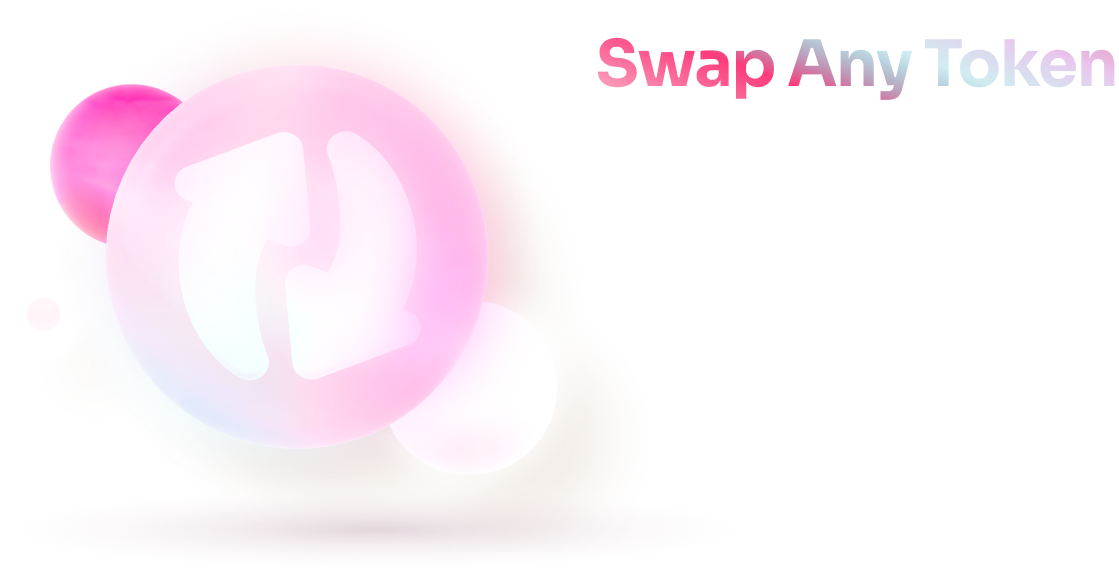
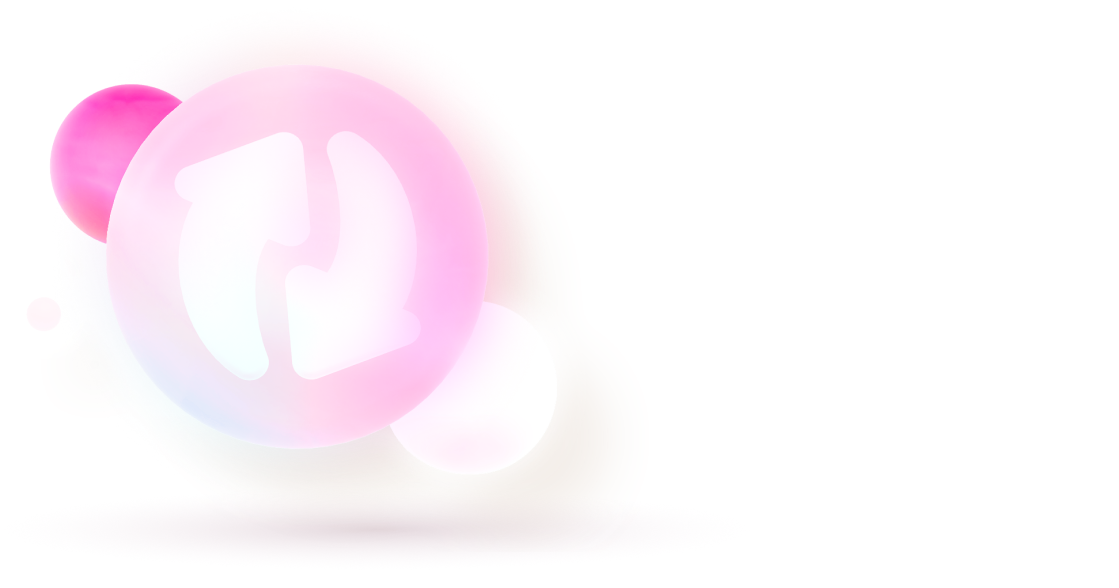
feat: added gradient titles

Changed region(s): [[0.5165, 0.0612, 1.0, 0.1837]]

diff --git a/src/views/About.vue b/src/views/About.vue
@@ -3,6 +3,9 @@
     <div class="content">
       <div class="about-main">
         <img src="@/assets/about/about01.png" draggable="false" class="main unselectable" />
+        <div class="about-main-title">
+          <p class="gradient main">{{ t('about.title') }}</p>
+        </div>
         <div class="about-main-text">
           <p class="text">{{ t('about.description') }}</p>
         </div>
@@ -10,6 +13,9 @@
       </div>
       <div class="about-trading">
         <img src="@/assets/about/about02.png" draggable="false" class="unselectable">
+        <div class="about-trading-title">
+          <p class="gradient trading">{{ t('about.trading.title') }}</p>
+        </div>
         <div class="about-trading-block-1">
           <p class="text">{{ t('about.trading.first') }}</p>
         </div>
@@ -30,6 +36,9 @@
       </div>
       <div class="about-liquidity">
         <img src="@/assets/about/about03.png" draggable="false" class="unselectable">
+        <div class="about-liquidity-title">
+          <p class="gradient liquidity">{{ t('about.liquidity.title') }}</p>
+        </div>
         <div class="about-liquidity-block-1">
           <p class="text">{{ t('about.liquidity.first') }}</p>
         </div>
@@ -49,6 +58,9 @@
       </div>
       <div class="about-swap">
         <img src="@/assets/about/about04.png" draggable="false" class="unselectable">
+        <div class="about-swap-title">
+          <p class="gradient swap">{{ t('about.swap.title') }}</p>
+        </div>
         <div class="about-swap-block-1">
           <p class="text">{{ t('about.swap.first') }}</p>
         </div>
@@ -68,6 +80,9 @@
       </div>
       <div class="about-pswap">
         <img src="@/assets/about/about05.png" draggable="false" class="unselectable">
+        <div class="about-pswap-title">
+          <p class="gradient pswap">{{ t('about.pswap.title') }}</p>
+        </div>
         <div class="about-pswap-block-1">
           <p class="text">{{ t('about.pswap.first') }}</p>
         </div>
@@ -161,6 +176,11 @@ $disclaimer-letter-spacing: -0.03em;
   }
 }
 
+.layout {
+  max-width: 1040px;
+  margin: 0 auto;
+}
+
 .content {
   display: flex;
   flex-direction: column;
@@ -207,6 +227,15 @@ $disclaimer-letter-spacing: -0.03em;
       width: 100%;
     }
 
+    &-title {
+      position: absolute;
+      top: 50%;
+      left: 50%;
+      transform: translate(-50%, -52%);
+      line-height: 62px;
+      text-align: center;
+    }
+
     &-text {
       top: 60%;
       width: 35%;
@@ -225,6 +254,14 @@ $disclaimer-letter-spacing: -0.03em;
     position: relative;
 
     @include backgroundImageWidth;
+
+    &-title {
+      position: absolute;
+      top: 20%;
+      left: 68%;
+      transform: translate(-50%, -50%);
+      width: fit-content;
+    }
 
     &-block-1 {
       top: 26%;
@@ -264,43 +301,40 @@ $disclaimer-letter-spacing: -0.03em;
 
     @include backgroundImageWidth;
 
-    &-block-1 {
-      top: 49.5%;
-      left: 12.5%;
-      width: 35%;
-
+    &-title {
       position: absolute;
+      top: 36%;
+      left: 32%;
+      transform: translate(-50%, -50%);
+      width: 40%;
+    }
+
+    &-block-1 {
+      top: 56.5%;
+      left: 30.5%;
+      width: 37%;
+      position: absolute;
+      transform: translate(-50%, -50%);
     }
     &-block-2 {
-      top: 60%;
-      left: 9%;
+      top: 75%;
+      left: 36%;
       width: 55%;
-
       position: absolute;
+      transform: translate(-50%, -50%);
     }
     &-block-3 {
-      top: 75%;
-      left: 9%;
+      top: 94%;
+      left: 36%;
       width: 55%;
-
       position: absolute;
+      transform: translate(-50%, -50%);
     }
     &-shadow-1 {
       position: absolute;
       top: -110%;
       z-index: -1;
       width: 100%;
-    }
-    @media screen and (max-width: 1024px) {
-      &-block-1 {
-        left: 6.5%;
-      }
-      &-block-2 {
-        left: 2%;
-      }
-      &-block-3 {
-        left: 2%;
-      }
     }
   }
   &-swap {
@@ -313,8 +347,16 @@ $disclaimer-letter-spacing: -0.03em;
 
     @include backgroundImageWidth;
 
+    &-title {
+      position: absolute;
+      top: 12%;
+      left: 72%;
+      transform: translate(-50%, -50%);
+      width: 40%;
+    }
+
     &-block-1 {
-      top: 20%;
+      top: 24%;
       right: 7.5%;
       width: 40%;
 
@@ -351,6 +393,14 @@ $disclaimer-letter-spacing: -0.03em;
 
     @include backgroundImageWidth;
 
+    &-title {
+      position: absolute;
+      top: 29%;
+      left: 54%;
+      transform: translate(-50%, -50%);
+      width: 40%;
+    }
+
     &-block-1 {
       top: 36%;
       right: 33%;
@@ -359,7 +409,7 @@ $disclaimer-letter-spacing: -0.03em;
       position: absolute;
     }
     &-block-2 {
-      top: 58%;
+      top: 62%;
       left: 32%;
       width: 50%;
 
@@ -432,6 +482,8 @@ $disclaimer-letter-spacing: -0.03em;
         letter-spacing: -0.02em;
         font-feature-settings: 'case' on, 'liga' off;
 
+        padding: 10px 0;
+
         color: #D5CDD0;
 
         .link {
@@ -491,16 +543,11 @@ $disclaimer-letter-spacing: -0.03em;
   @media screen and (min-width: 1100px) {
     font-size: 14px;
   }
-  @media screen and (min-width: 1250px) {
-    font-size: 15px;
-  }
-  @media screen and (min-width: 1800px) {
-    font-size: 18px;
-  }
 }
 
 .app-disclaimer {
   margin-top: $inner-spacing-mini * 2.5;
+  margin-bottom: $inner-spacing-mini * 2.5;
   font-size: $disclaimer-font-size;
   font-weight: $disclaimer-font-weight;
   line-height: var(--s-line-height-mini);
@@ -522,6 +569,7 @@ $disclaimer-letter-spacing: -0.03em;
     display: flex;
     flex-direction: row;
     justify-content: space-between;
+    display: none;
 
     .social-links {
       display: flex;
@@ -549,5 +597,61 @@ $disclaimer-letter-spacing: -0.03em;
   .disclaimer {
     margin-top: 40px;
   }
+}
+
+.gradient {
+  @mixin gradientBackground {
+    background-clip: text;
+    -webkit-background-clip: text;
+  }
+
+  @mixin fontSize {
+    @media screen and (max-width: 1200px) {
+      &.main {
+        font-size: 55px;
+      }
+      &.trading, &.liquidity,
+      &.swap, &.pswap {
+        font-size: 36px;
+      }
+    }
+  }
+
+  font-family: Sora;
+  font-style: normal;
+  font-weight: 800;
+  letter-spacing: -0.02em;
+  font-feature-settings: 'case' on, 'liga' off;
+  box-decoration-break: clone;
+  -webkit-text-fill-color: transparent;
+  -webkit-box-decoration-break: clone;
+
+  &.main {
+    font-size: 58px;
+    background: linear-gradient(79.7deg, rgba(242, 153, 133, 0.68) 5.55%, #FF3B7B 55.23%, rgba(24, 165, 184, 0.2) 98.71%, rgba(171, 24, 184, 0.25) 131.11%, rgba(242, 44, 109, 0.38) 157.31%);
+    @include gradientBackground;
+  }
+  &.trading {
+    font-size: 46px;
+    background: linear-gradient(72.2deg, rgba(242, 44, 109, 0.38) 0%, #FF3B7B 32.74%, rgba(24, 165, 184, 0.2) 61.38%, rgba(171, 24, 184, 0.25) 82.74%, rgba(242, 153, 133, 0.68) 100%);
+    @include gradientBackground;
+  }
+  &.liquidity {
+    font-size: 46px;
+    background: linear-gradient(80.38deg, #FFD9E5 14.49%, rgba(242, 153, 133, 0.68) 38.03%, rgba(239, 20, 92, 0.38) 61.35%, rgba(171, 24, 184, 0.25) 79.98%, rgba(24, 174, 184, 0.2) 85.51%);
+    @include gradientBackground;
+  }
+  &.swap {
+    font-size: 46px;
+    background: linear-gradient(72.2deg, rgba(242, 44, 109, 0.38) 0%, #FF3B7B 32.74%, rgba(24, 165, 184, 0.2) 61.38%, rgba(171, 24, 184, 0.25) 82.74%, rgba(242, 153, 133, 0.68) 100%);
+    @include gradientBackground;
+  }
+  &.pswap {
+    font-size: 46px;
+    background: linear-gradient(98.89deg, rgba(237, 20, 91, 0.75) 24.73%, rgba(86, 3, 48, 0.75) 71.56%, rgba(113, 24, 184, 0.75) 90.08%);
+    @include gradientBackground;
+  }
+
+  @include fontSize;
 }
 </style>

diff --git a/src/lang/en/index.ts b/src/lang/en/index.ts
@@ -148,23 +148,28 @@ export default {
     metamask: '@:metamask'
   },
   about: {
+    title: 'The DEX for the Interoperable Future.',
     description: 'Cross-chain exchange of assets, simple creation and listing of new assets, and the easiest swaps ever. The interoperable future of Polkadot is here and we are at the forefront!',
     trading: {
+      title: 'Faster Trading',
       first: 'Polkaswap is a non-custodial, cross-chain AMM DEX protocol for swapping tokens based on Polkadot and Kusama relay chains, Polkadot and Kusama parachains, and blockchains directly connected via bridges.',
       second: 'Polkaswap removes trusted intermediaries and provides the opportunity for faster trading',
       third: 'Polkaswap is a community project and devs collaborate on the open source code using the '
     },
     liquidity: {
+      title: 'Boundless Liquidity',
       first: 'Polkaswap combines multiple liquidity sources under a common liquidity aggregation algorithm, operating completely on-chain, in a trustless and decentralized way.',
       second: 'When traders call the swap function, the liquidity aggregation algorithm will fill orders using the best offers across all liquidity sources. Liquidity sources can be other DEXs, order books, or other API-driven sources.',
       third: 'Because Polkaswap is an open-source project, anyone can add more liquidity sources by making contributions to the Polkaswap codebase.'
     },
     swap: {
+      title: 'Swap Any Token',
       first: 'Go beyond the limits of current DEXs by adding tokens from the Polkadot ecosystem as well as other blockchains.',
       second: 'Create, list and trade your own tokens on the SORA network.',
       third: 'Our core infrastructure uses Parity Substrate, which is more scalable than Ethereum, and does not use expensive mining for consensus.'
     },
     pswap: {
+      title: 'PSWAP Tokens',
       first: 'PSWAP was created by community governance by voting on its release. It is a utility and governance token used to reward liquidity providers on Polkaswap. Unlike most other reward tokens, PSWAP is burned with transactions and decreases in supply over time.',
       second: 'The 0.3% fee for every swap on the Polkaswap DEX is used to buy back PSWAP tokens, which are then burned. At first, 90% of burned PSWAP tokens are reminted to allocate to liquidity providers, but with time this percentage will decrease to 35% after 4 years.'
     },
